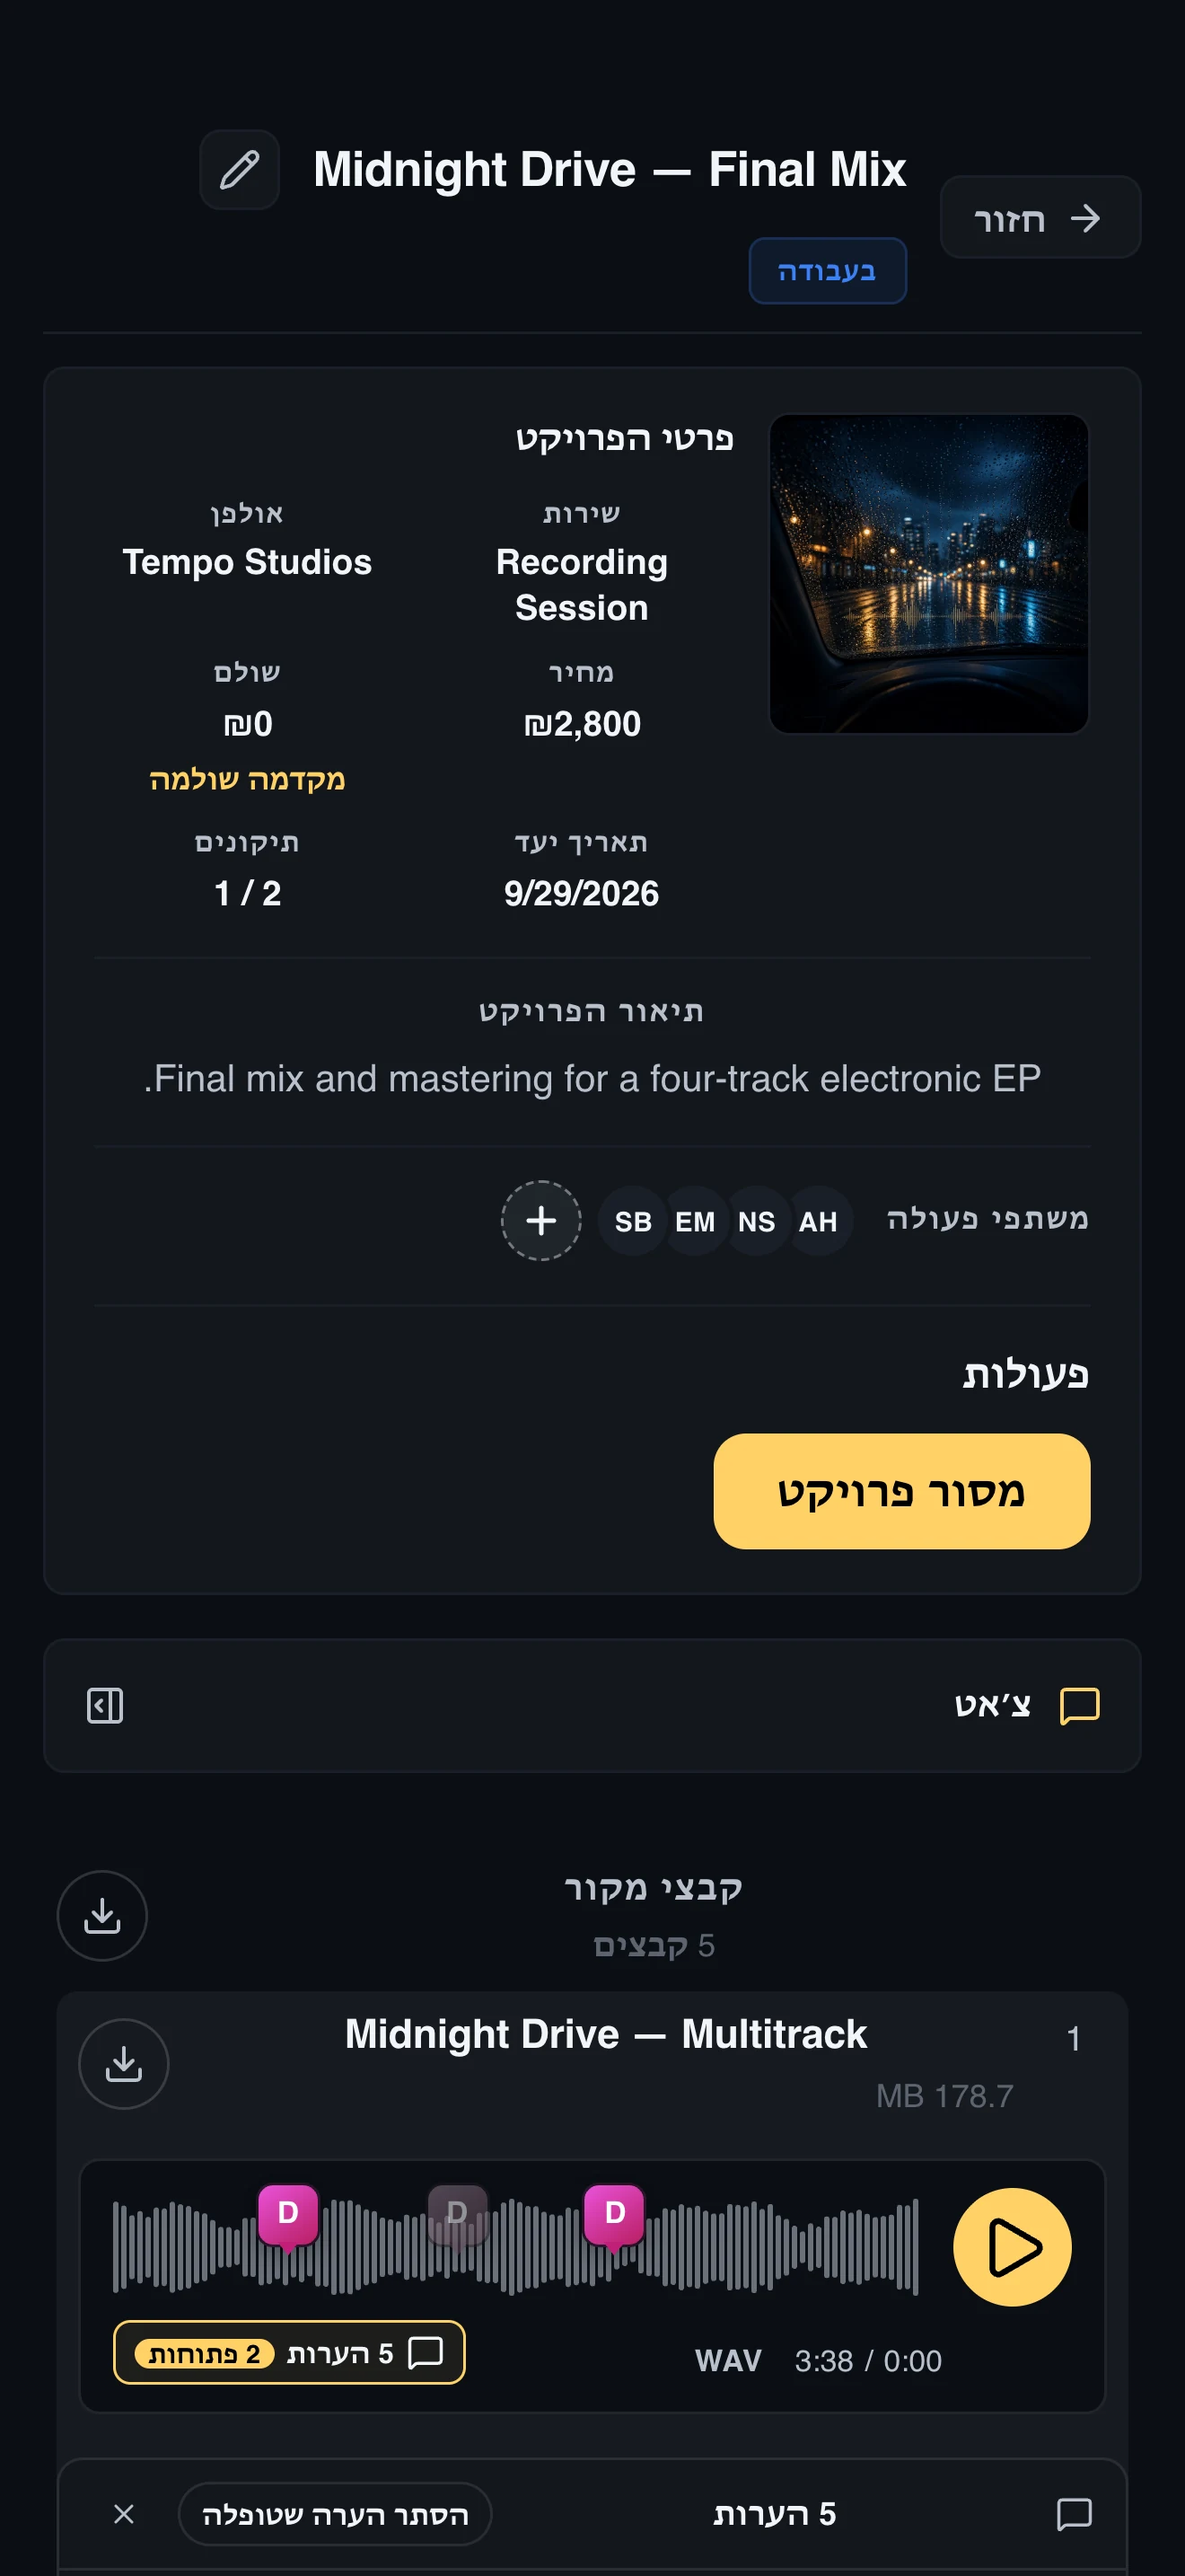
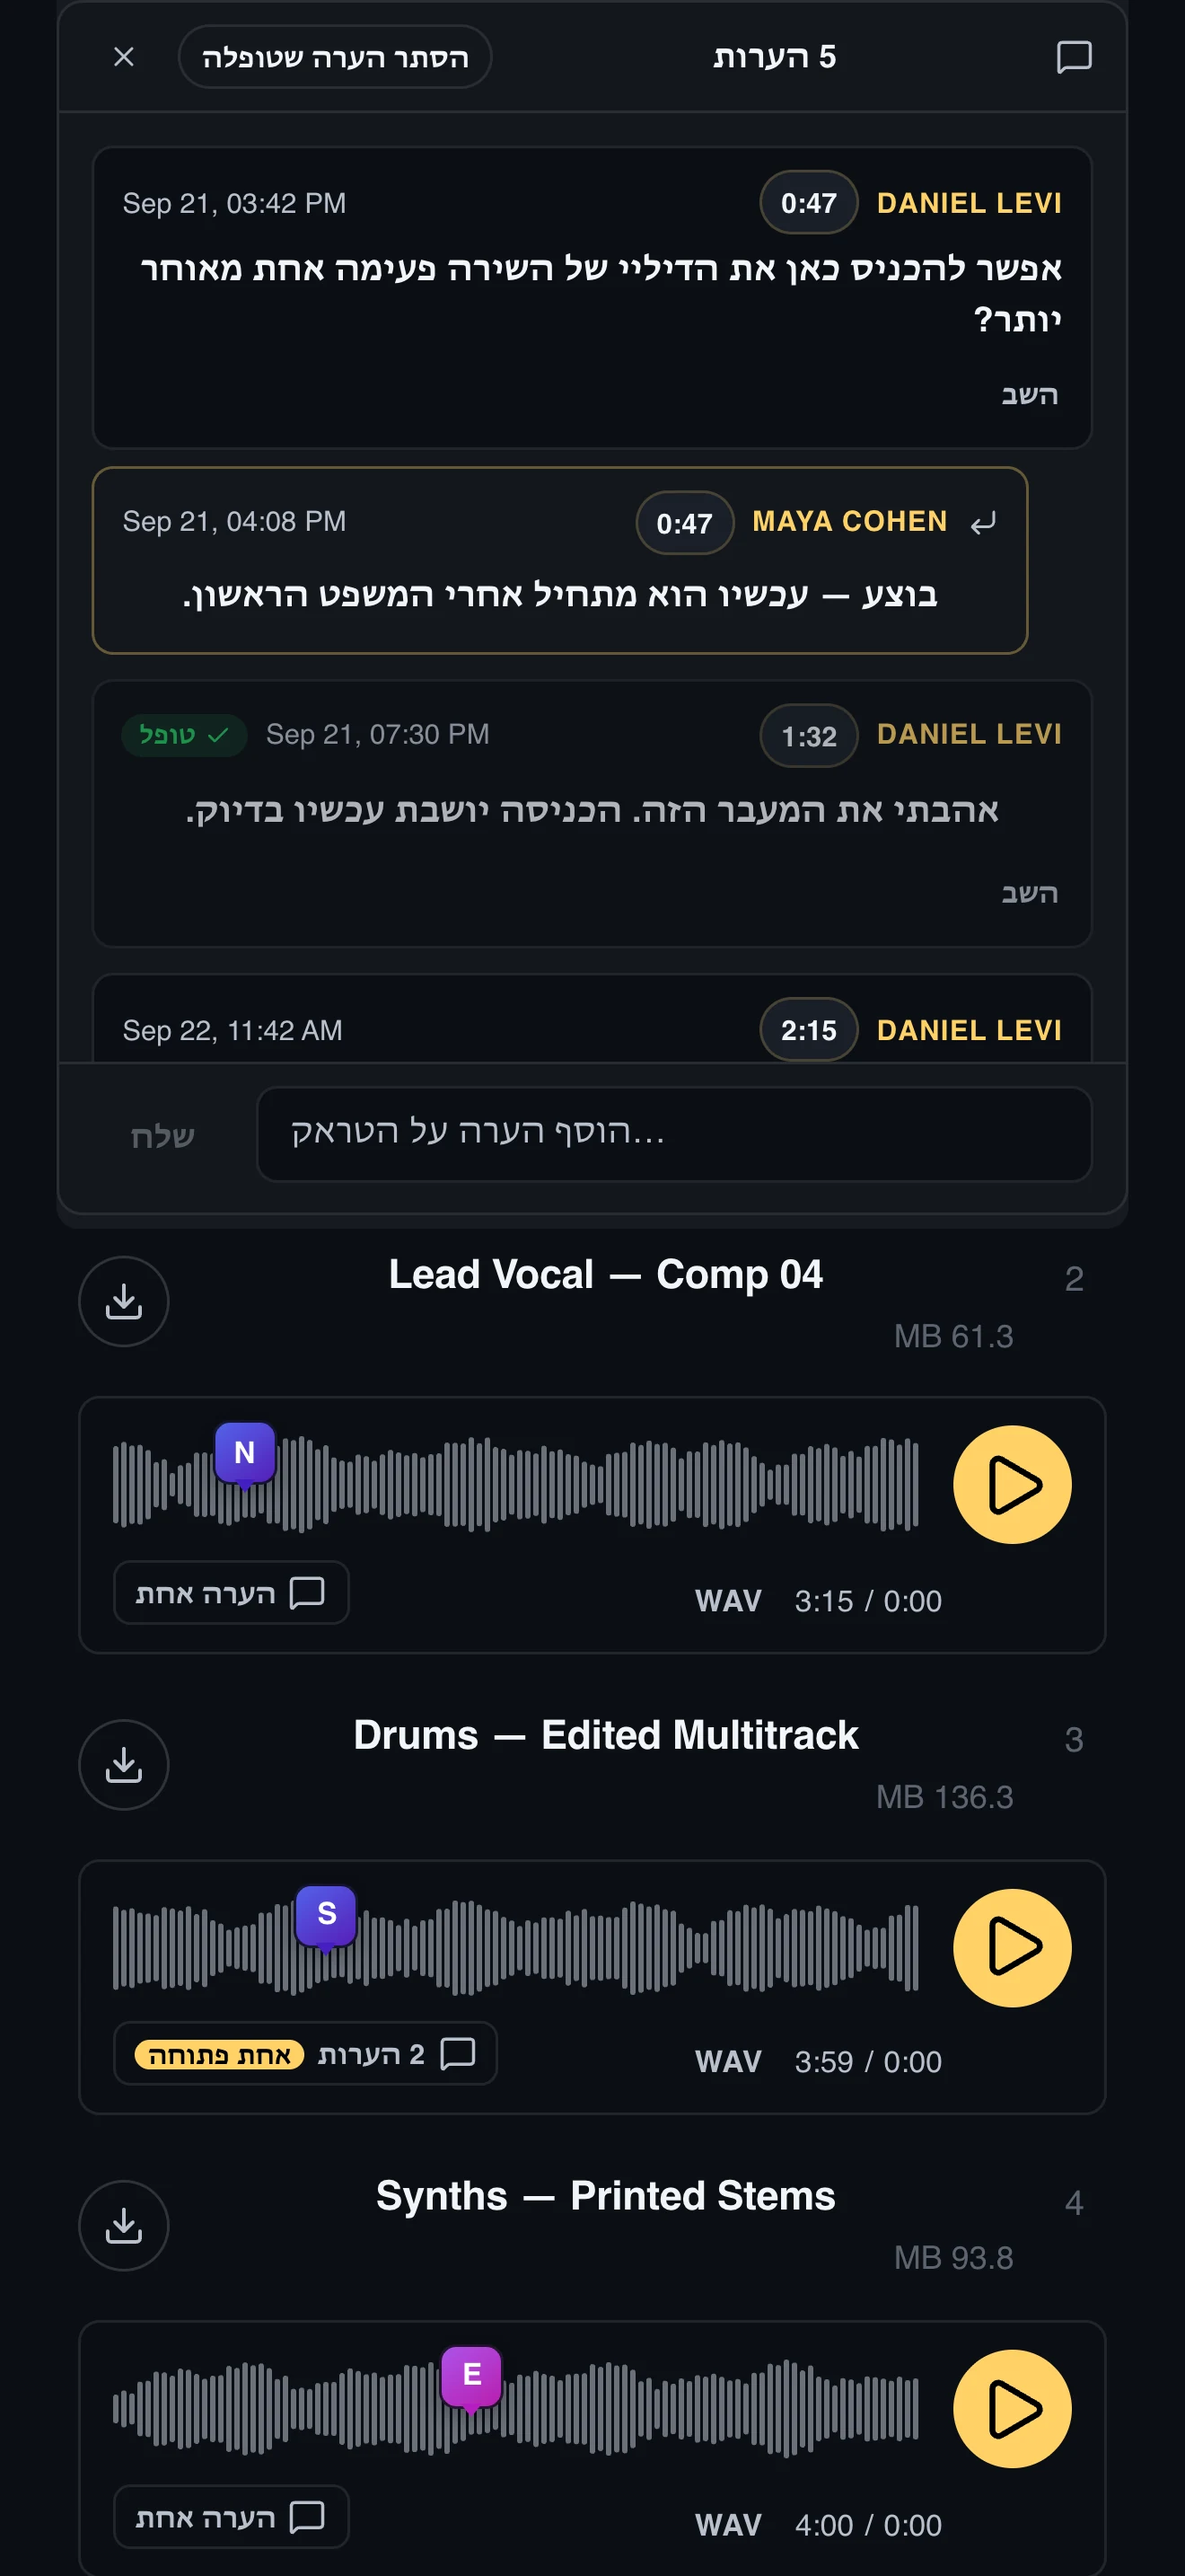
Revert desktop project workspace to the closed-thread framing.
Keep the platform lead copy change from the prior commit.

diff --git a/tools/app-store-screenshots/screenshots.config.ts b/tools/app-store-screenshots/screenshots.config.ts
@@ -513,12 +513,8 @@ const scenes: ScreenshotScene[] = [
     device: 'desktop-1440',
     template: 'full-bleed',
     textAlign: 'center',
-    // Source files + open track thread + collaborators in frame for every locale/theme.
-    actions: [
-      { type: 'scroll', selector: '.project-file-uploader--source', offsetY: -72 },
-      { type: 'click', selector: '.project-file-uploader--source .remote-audio-player__thread-toggle' },
-      { type: 'scroll', selector: '.project-file-uploader--source .track-thread', offsetY: -220 }
-    ],
+    // Keep Actions + source files + chat in frame for every locale/theme.
+    actions: [{ type: 'scroll', selector: '.project-file-uploader--source', offsetY: -88 }],
     deviceTransform: { scale: 0.72, y: 100, shadow: true },
     capturePublish: {
       directory: 'public/images/features-generated',
@@ -596,13 +592,9 @@ const scenes: ScreenshotScene[] = [
     device: 'desktop-1440',
     secondaryDevice: 'iphone-6.9',
     template: 'dual',
-    // Desktop: same open-thread workspace as desktop-project-workspace.
+    // Desktop: same Actions + source files scene as desktop-project-workspace.
     // Mobile: open a track thread so the dual still shows cross-device review.
-    primaryActions: [
-      { type: 'scroll', selector: '.project-file-uploader--source', offsetY: -72 },
-      { type: 'click', selector: '.project-file-uploader--source .remote-audio-player__thread-toggle' },
-      { type: 'scroll', selector: '.project-file-uploader--source .track-thread', offsetY: -220 }
-    ],
+    primaryActions: [{ type: 'scroll', selector: '.project-file-uploader--source', offsetY: -88 }],
     secondaryActions: [
       { type: 'scroll', selector: '.project-file-uploader--source' },
       { type: 'click', selector: '.project-file-uploader--source .remote-audio-player__thread-toggle' },
